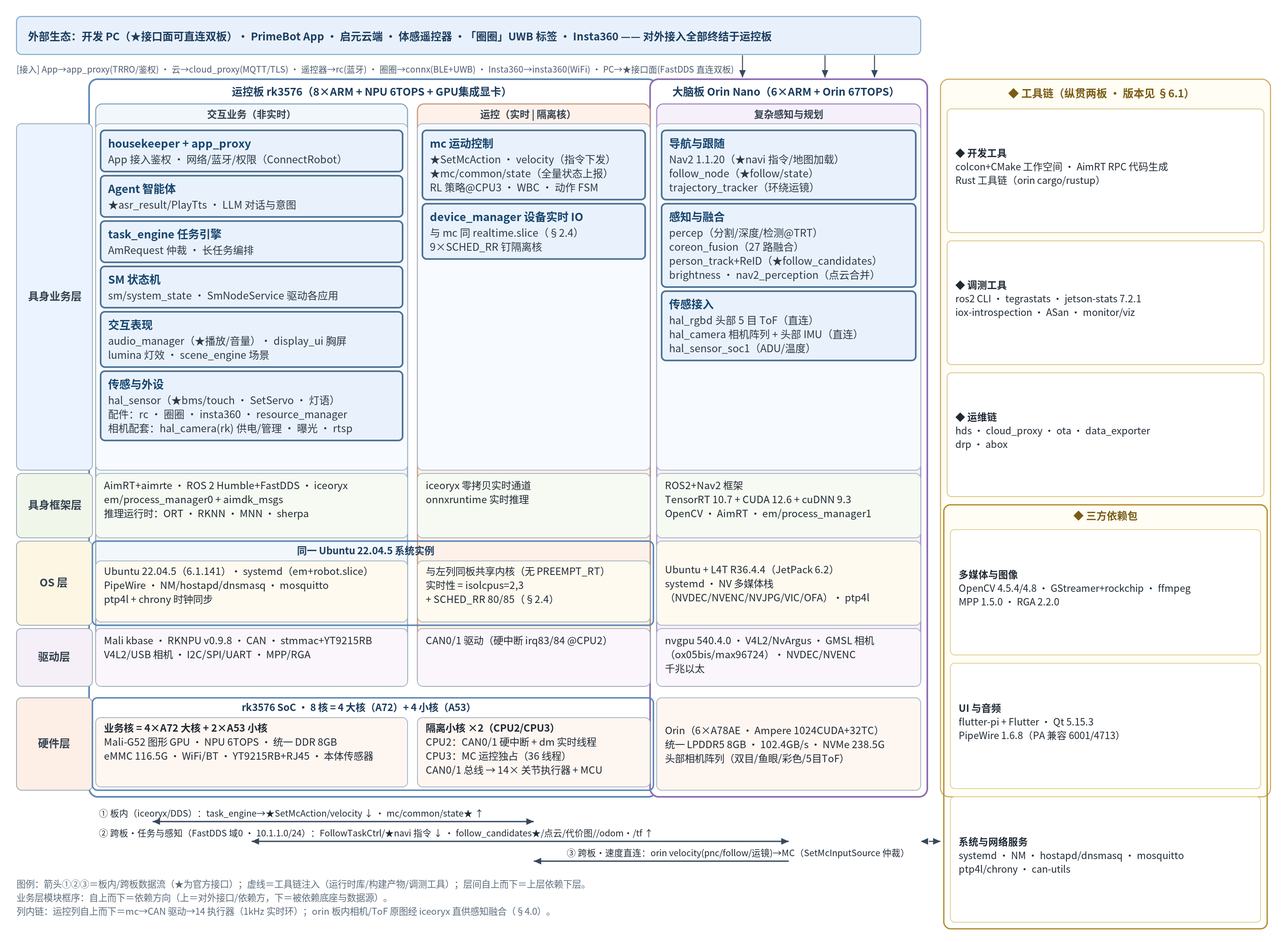
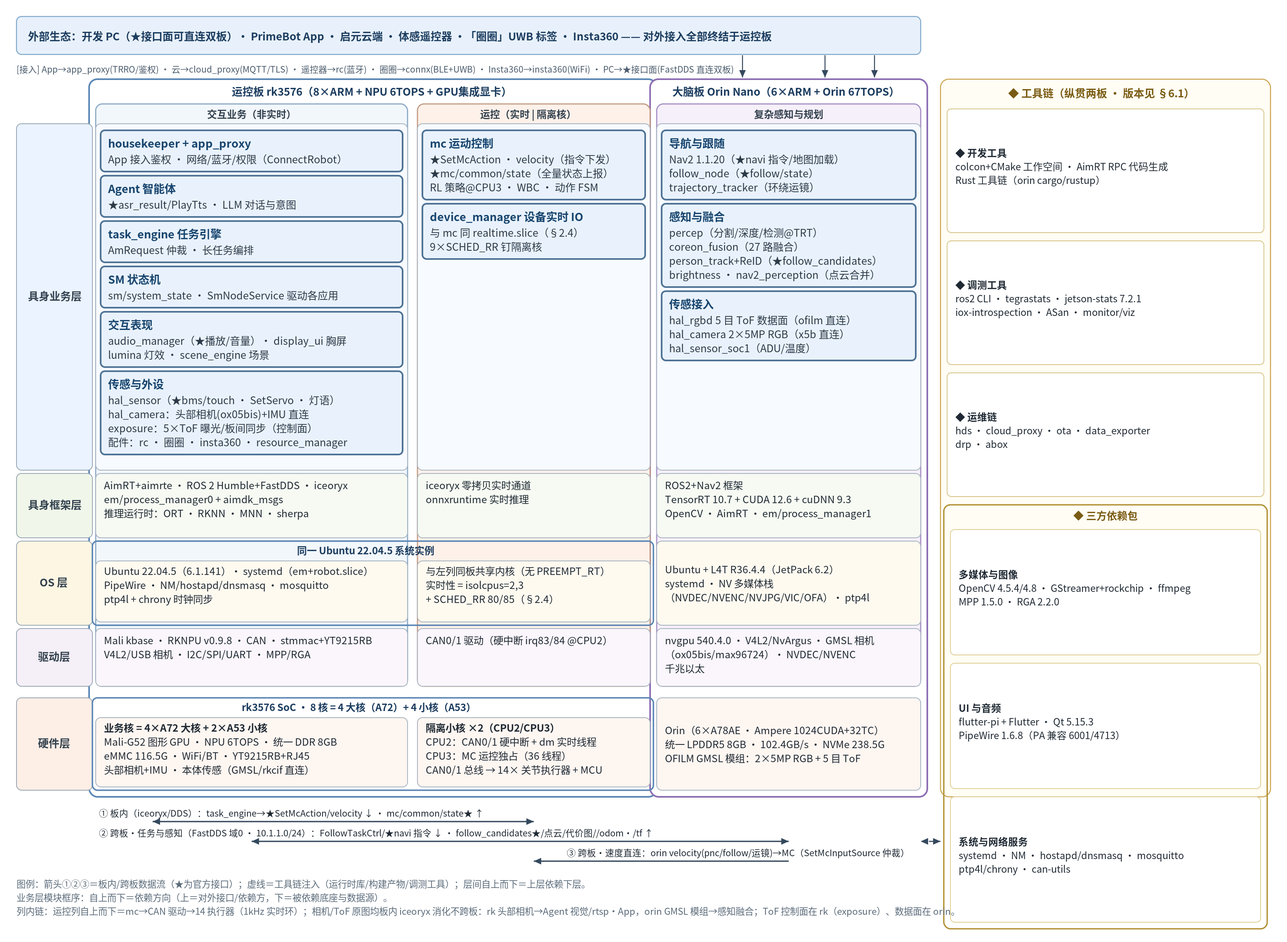
传感器直连拓扑板上实证闭环 + 归属推断清单全部核实（fuser/dmesg/cfg 三重核验）
rk 直连（实证）：头部相机 ox05bis 5MP（max96724 GMSL→rkcif，hal_camera
持有 /dev/video0-1，2592×1944@10fps，出 bgr_l/nv12_l）+ BMI08 头部 IMU
（orin 配置中 imu_head 已注释→归属修正为 rk 发布）+ 5×ToF 控制面
（hal_rgbd 包内 exposure 进程，I2C i2c-0/i2c-5 + V4L2 直控曝光，处理
/ofilm/tof/inter_board 板间同步，持有 /dev/video2）+ 本体传感；图像经
iceoryx/dmabuf 板内供 Agent 视觉（NPU 实测 25%/15% 常跑）与 rtsp（App）

orin 直连（实证）：OFILM GMSL 模组 = 2× ofilm_x5b 5MP RGB（UYVY，
hal_camera 持有 video0-1）+ 5×ToF 数据面（ofilm_tof/tofb，hal_rgbd 持有
video2-7→coreon_fusion）+ ADU/温度；鱼眼配置项指向不存在的 video8/9
（其他机型遗留）

跨板结论实证：图像话题 ROS 侧 0 发布者＝原图不跨板；ToF 控制面在 rk、
数据面在 orin 分工；soc_sync/ready + inter_board 双同步信号

归属核实闭环：HK_ros2_rpc_node=管家/云属性桥（实证）；task_trigger=
Agent 交互触发链（订阅 face_info/task_operation/interaction + TaskStatus
客户端；原推断 task_engine 侧有误）；trro_recv_dedicated=App 通道接收器
（app_proxy 域进程内节点）；scene_engine=ros2 通道订阅（cfg 实证）；
§6.3 表 rk 侧 hal_rgbd 实为 exposure 曝光进程

文档同步 12 处；图 7-1 传感与外设/传感接入/硬件层/图例更新；
图引用 ?v=20261031e；Chrome 110/110 文本全渲染核验

diff --git a/figures/gen_fig_7_1.py b/figures/gen_fig_7_1.py
@@ -79,7 +79,7 @@ BIZ_COLS = [
   ('task_engine 任务引擎', ['AmRequest 仲裁 · 长任务编排']),
   ('SM 状态机', ['sm/system_state · SmNodeService 驱动各应用']),
   ('交互表现', ['audio_manager（★播放/音量）· display_ui 胸屏', 'lumina 灯效 · scene_engine 场景']),
-  ('传感与外设', ['hal_sensor（★bms/touch · SetServo · 灯语）', '配件：rc · 圈圈 · insta360 · resource_manager', '相机配套：hal_camera(rk) 供电/管理 · 曝光 · rtsp']),
+  ('传感与外设', ['hal_sensor（★bms/touch · SetServo · 灯语）', 'hal_camera：头部相机(ox05bis)+IMU 直连', 'exposure：5×ToF 曝光/板间同步（控制面）', '配件：rc · 圈圈 · insta360 · resource_manager']),
  ],
  [  # rk·运控：mc 对上暴露 ★接口，device_manager 为更底层设备 IO
   ('mc 运动控制', ['★SetMcAction · velocity（指令下发）', '★mc/common/state（全量状态上报）', 'RL 策略@CPU3 · WBC · 动作 FSM']),
@@ -88,7 +88,7 @@ BIZ_COLS = [
  [  # orin：任务产出层在上，感知融合居中，传感数据源在下
   ('导航与跟随', ['Nav2 1.1.20（★navi 指令/地图加载）', 'follow_node（★follow/state）', 'trajectory_tracker（环绕运镜）']),
   ('感知与融合', ['percep（分割/深度/检测@TRT）', 'coreon_fusion（27 路融合）', 'person_track+ReID（★follow_candidates）', 'brightness · nav2_perception（点云合并）']),
-  ('传感接入', ['hal_rgbd 头部 5 目 ToF（直连）', 'hal_camera 相机阵列 + 头部 IMU（直连）', 'hal_sensor_soc1（ADU/温度）']),
+  ('传感接入', ['hal_rgbd 5 目 ToF 数据面（ofilm 直连）', 'hal_camera 2×5MP RGB（x5b 直连）', 'hal_sensor_soc1（ADU/温度）']),
  ],
 ]
 
@@ -115,14 +115,15 @@ dr_c3 = [('nvgpu 540.4.0 · V4L2/NvArgus · GMSL 相机', False),
          ('千兆以太', False)]
 hw_c1 = [('业务核 = 4×A72 大核 + 2×A53 小核', True),
          ('Mali-G52 图形 GPU · NPU 6TOPS · 统一 DDR 8GB', False),
-         ('eMMC 116.5G · WiFi/BT · YT9215RB+RJ45 · 本体传感器', False)]
+         ('eMMC 116.5G · WiFi/BT · YT9215RB+RJ45', False),
+         ('头部相机+IMU · 本体传感（GMSL/rkcif 直连）', False)]
 hw_c2 = [('隔离小核 ×2（CPU2/CPU3）', True),
          ('CPU2：CAN0/1 硬中断 + dm 实时线程', False),
          ('CPU3：MC 运控独占（36 线程）', False),
          ('CAN0/1 总线 → 14× 关节执行器 + MCU', False)]
 hw_c3 = [('Orin（6×A78AE · Ampere 1024CUDA+32TC）', False),
          ('统一 LPDDR5 8GB · 102.4GB/s · NVMe 238.5G', False),
-         ('头部相机阵列（双目/鱼眼/彩色/5目ToF）', False)]
+         ('OFILM GMSL 模组：2×5MP RGB + 5 目 ToF', False)]
 
 ROWS = [('具身框架层', (fw_c1, fw_c2, fw_c3)),
         ('OS 层', (os_c1, os_c2, os_c3)),
@@ -303,7 +304,7 @@ S.append(arrow(TC_X, AY2, C3_X + C3_W, AY2, dash='5,4', sw=1.3))
 t, _ = text_block(LBL_X, BOARD_BOT + 110, [
     ('图例：箭头①②③＝板内/跨板数据流（★为官方接口）；虚线＝工具链注入（运行时库/构建产物/调测工具）；层间自上而下＝上层依赖下层。', False),
     ('业务层模块框序：自上而下＝依赖方向（上＝对外接口/依赖方，下＝被依赖底座与数据源）。', False),
-    ('列内链：运控列自上而下＝mc→CAN 驱动→14 执行器（1kHz 实时环）；orin 板内相机/ToF 原图经 iceoryx 直供感知融合（§4.0）。', False)],
+    ('列内链：运控列自上而下＝mc→CAN 驱动→14 执行器（1kHz 实时环）；相机/ToF 原图均板内 iceoryx 消化不跨板：rk 头部相机→Agent 视觉/rtsp·App，orin GMSL 模组→感知融合；ToF 控制面在 rk（exposure）、数据面在 orin。', False)],
     fs=11.2, color='#5b6b7a', lh=16.6)
 S.append(t)
 

diff --git a/t1-pro-orin-rk-analysis.md b/t1-pro-orin-rk-analysis.md
@@ -233,7 +233,7 @@ systemd
 | `aimrt_main`（t1_v2d0_config.yaml） | run | 设备管理器 device_manager | `/device_manager_node`（cwd=/robot/software/device_manager/bin 实证） |
 | `aimrt_main`（audio_manager.yaml） | run | 音频管理（麦克风阵列/播放/音乐） | `/audiomanager_ros2_node` |
 | `aimrt_main`（hal_sensor_t1_v2d0_cfg.yaml） | run | 传感器 HAL（BMS/触摸/灯/舵机/颈部灯，soc0 侧） | `/hal_sensor_soc0` |
-| `aima-hal_camera-app-main`（rk 配置） | run | 相机 HAL（rk 侧摄像头供电/管理） | 图上未见 ROS 节点（iceoryx 为主） |
+| `aima-hal_camera-app-main`（rk 配置） | run | **相机 HAL：头部相机直连采集**（ox05bis 5MP 经 max96724 GMSL→rkcif，2592×1944@10fps，fuser 实证持有 /dev/video0-1）+ **BMI08 头部 IMU**（/dev/bmi08_imu）；帧经 iceoryx/dmabuf 板内分发（Agent 视觉/rtsp） | 图上未见 ROS 节点（图像走 iceoryx，2026-10-31 板上实证） |
 | `aima-hds-app`（hds_master.yaml） | root | 健康诊断服务 HDS（故障码汇总/告警） | `/hds` |
 | `flutter-pi --release -r 180 display_ui` | root | 胸屏 Flutter UI 渲染 | 非 ROS 进程 |
 | `aima-legged_odom-app` | run | 足式里程计（odom/tf/躯干位姿） | `/legged_odom_node` |
@@ -263,8 +263,8 @@ systemd
 | `process_manager` | root | 同 rk（soc1 实例） | `/process_manager1` |
 | `sys_guard` | root | 系统守护（soc1 侧） | `/sys_guard_node_soc1` |
 | `aimrt_main`（hal_sensor_orin_t1_cfg.yaml） | run | 传感器 HAL（ADU 电源板/温度，soc1 侧） | `/hal_sensor_soc1` |
-| `aimrt_main`（t1_v2d1_config.yaml，hal_rgbd） | run | RGBD/ToF 相机 HAL（头部 5 目 ToF：main/front/rear/left/right） | `/hal_rgbd_node` + `/hal_rgbd_node_0`（cwd=hal_rgbd/bin 实证） |
-| `aima-hal_camera-app-main`（orin 配置） | run | 相机 HAL（orin 侧：双目/鱼眼/中央彩色相机 + 头部 IMU） | `/hal_camera` + `/hal_camera_1` |
+| `aimrt_main`（t1_v2d1_config.yaml，hal_rgbd） | run | RGBD/ToF 相机 HAL——**5 目 ToF 数据面**（ofilm_tof/tofb GMSL 驱动，fuser 实证持有 /dev/video2-7；main/front/rear/left/right） | `/hal_rgbd_node` + `/hal_rgbd_node_0`（cwd=hal_rgbd/bin 实证） |
+| `aima-hal_camera-app-main`（orin 配置） | run | 相机 HAL——2× ofilm_x5b 5MP RGB（2592×1944 UYVY，GMSL 直连，fuser 实证持有 /dev/video0-1；ToF 曝光控制面在 rk 侧 exposure）；imu_head 由 rk 侧发布（本板配置中已注释） | `/hal_camera` + `/hal_camera_1`（图像走 iceoryx，ROS 侧 0 发布者） |
 | `aimrt_main`（aimrt_person_track_config_T.yaml） | run | 人体跟踪感知（跟随候选目标检测） | `/aimrt_person_track_node` + `/aimrt_person_track_srv` |
 | `aimrt_main`（aimrt_brightness_status_config_T.yaml） | run | 亮度检测（跟随过暗门控） | `/aimrt_brightness_status_node` + `/aimrt_brightness_status_srv` |
 | `coreon_fusion` | run | 多传感器融合（5×ToF+相机+IMU+UWB → 融合点云/目标/避障状态） | `/coreon_fusion_ros2_node` |
@@ -306,9 +306,9 @@ systemd
 | **mc_app_main（CPU3 独占）** | `/mc_ros2_node` | 4 | 2 | 13 | 0 |
 | aim_sm_app | `/sm` | 3 | 2 | 4 | 28 |
 | aima-agent-app | `/aimrt_agent_node` | 15 | 8 | 18 | 24 |
-| （管家/云属性桥，推断） | `/HK_ros2_rpc_node` | 0 | 0 | 1 | 1 |
+| （管家/云属性桥，实证） | `/HK_ros2_rpc_node` | 0 | 0 | 1 | 1 |
 | task_engine | `/task_engine` | 12 | 39 | 30 | 51 |
-| （任务触发链路，推断 task_engine 侧） | `/task_trigger_ros2_node` | 0 | 3 | 0 | 1 |
+| （任务触发链路，实证=Agent 交互触发） | `/task_trigger_ros2_node` | 0 | 3 | 0 | 1 |
 | aimrt_main（t1_v2d0，device_manager） | `/device_manager_node` | 1 | 0 | 0 | 1 |
 | aimrt_main（audio_manager） | `/audiomanager_ros2_node` | 9 | 1 | 15 | 1 |
 | aimrt_main（hal_sensor soc0） | `/hal_sensor_soc0` | 6 | 2 | 9 | 0 |
@@ -349,7 +349,7 @@ systemd
 | nav2_perception | `/pointcloud_combiner_node`、`/perception_node`、`/lifecycle_manager_t1_perception` | 见 4.4 | | | |
 | data_exporter（soc1 实例） | `/data_exporter` ① | 1 | 0 | 12 | 10 |
 | aima_ota_slave_app | `/ota_slave` | 2 | 0 | 2 | 0 |
-| （进程未确证，订阅 trro 专用通道） | `/trro_recv_dedicated` | 0 | 1 | 0 | 0 |
+| （App 通道接收器，随 app_proxy 域，实证） | `/trro_recv_dedicated` | 0 | 1 | 0 | 0 |
 
 ### 4.3 各节点完整接口挂载（rk 侧业务节点）
 
@@ -436,7 +436,7 @@ systemd
 
 **`/hal_rgbd_node` + `/hal_rgbd_node_0`（hal_rgbd）**：发布 5 路 `ofilm/tof/*/sensor_info`（RgbdInfo：曝光/温度）、`ofilm/tof/inter_board`、diagnostic、sm/node_state；订阅 10 路 `ofilm/tof/*/raw_record|rrf_record`（录制开关）；服务端 `SetHalTofStream`、`SmNodeService/hal_rgbd/…`
 
-**`/hal_camera` + `/hal_camera_1`（hal_camera orin）**：`/hal_camera` 发布 `hal/camera/module_info`、`hal/imu/imu_head`、`soc_sync/ready`；服务端 `CaptureJpegImage`★、`HALCameraCommand`；`/hal_camera_1` 服务端 `SetHalCameraStream`；两者共同订阅 `permission_state`（相机权限门控）、`mc/common/state`
+**`/hal_camera` + `/hal_camera_1`（hal_camera orin）**：`/hal_camera` 发布 `hal/camera/module_info`、`soc_sync/ready`；服务端 `CaptureJpegImage`★、`HALCameraCommand`；`/hal_camera_1` 服务端 `SetHalCameraStream`；两者共同订阅 `permission_state`（相机权限门控）、`mc/common/state`
 
 **`/aimrt_person_track_node` + `_srv`（person_track）**：发布 `perception/follow_candidates`（跟随候选）★、`perception/target_info`（Detection2DArray）、`follow_camera_lift_angle`、3 路调试（debug_cloud/image/markers）；订阅 `mc/common/state`、`odom`、`enable_follow`、`follow_target_selection`；服务端 `/perception/set_follow_perception_task`；客户端 `SetServo`（相机抬升）
 
@@ -460,9 +460,9 @@ systemd
 
 **`/sys_guard_node_soc1`（orin）**：同 soc0 结构（active_scene、diagnostic、sm/node_state）
 
-**`/trro_recv_dedicated`（归属未确证，orin 侧可见）**：订阅 `aima/app_proxy/trro_pull_message`（App 通道专用接收器）
+**`/trro_recv_dedicated`（实证：App 通道接收器，无独立进程＝app_proxy 域进程内节点）**：订阅 `aima/app_proxy/trro_pull_message`（App 通道专用接收器）
 
-**`/HK_ros2_rpc_node`（推断 rk 管家/云属性桥）**：服务端 `aimomp.protocol.DevicePropertyService/SetProperty`；客户端 `aimomp.protocol.CloudPropertyService/ReportProperty`（proto RPC 包装）
+**`/HK_ros2_rpc_node`（实证 rk 管家/云属性桥，2026-10-31 node info 复核）**：服务端 `aimomp.protocol.DevicePropertyService/SetProperty`；客户端 `aimomp.protocol.CloudPropertyService/ReportProperty`（proto RPC 包装：设备属性设置→上报云端）
 
 **辅助节点**：`/launch_ros_1692`（launch 进程自身）、8×`/transform_listener_impl_*`（各进程内 tf2 监听辅助节点）、`/bt_navigator_navigate_to_pose_rclcpp_node`（bt_navigator 内部桥）——非业务节点。
 
@@ -559,7 +559,7 @@ systemd
 | `/odom_torso` | nav_msgs/Odometry | 躯干（上半身）里程计 | 同上 | coreon_fusion 订阅 | 内部 |
 | `/torso_imu_orientation` | nav_msgs/Odometry | 躯干 IMU 航向（以里程计形式表达） | 同上 | coreon_fusion 订阅 | 内部 |
 | `/aima/hal/imu/torso/state` | sensor_msgs/Imu | 躯干 IMU 原始数据（仅订阅、发布者离线） | 标准 Imu（角速度/线加速度/姿态） | coreon_fusion 订阅 | 内部 HAL 通道 |
-| `/aima/hal/imu/imu_head` | sensor_msgs/Imu | 头部 IMU（hal_camera 发布） | 标准 Imu | 外部（仅发布） | 内部 |
+| `/aima/hal/imu/imu_head` | sensor_msgs/Imu | 头部 IMU（**rk** hal_camera/BMI08 发布，跨板可见；orin 配置中已注释） | 标准 Imu | 外部（仅发布） | 内部 |
 | `/tf`、`/tf_static` | tf2_msgs/TFMessage | 坐标变换树（map→odom 静态、base_link→相机/ToF 静态、odom→base_link 动态） | TFMessage（transforms[]） | 全图 9 订阅 | 4 个静态发布器 + legged_odom 动态发布 |
 | `/goal_pose` | geometry_msgs/PoseStamped | 导航目标点（仅订阅；nav2 标准入口） | `header`；`pose` | bt_navigator 订阅 | T1 业务侧走 `/navi/command` 服务 |
 | `/grid_map_origin` | nav_msgs/OccupancyGrid | 当前地图原点/元信息（map_server 发布） | 标准 OccupancyGrid | robot_navigation、costmap 订阅 | 内部 |
@@ -610,7 +610,7 @@ systemd
 | `/aima/hal/camera/head_stereo_left_orin` / `_right_orin` | Image | 头部双目（orin 处理流）左右目 | 标准 Image | coreon_fusion 订阅 | — |
 | `/aima/hal/camera/head_fisheye_left_orin` / `_right_orin` | Image | 头部左右鱼眼（orin 流） | 标准 Image | coreon_fusion 订阅 | — |
 | `/ofilm/tof/{main,front,rear,left,right}/sensor_info` | RgbdInfo | 5 路 ToF 模组信息 | `header`；`exposure` 曝光；`temperature` 温度 | coreon_fusion/融合链路订阅 | 与 `SetHalTofStream` 供电/出流控制配对 |
-| `/ofilm/tof/inter_board` | std_msgs/Bool | ToF 板间同步标志 | `data` | hal_rgbd_node_0 订阅 | — |
+| `/ofilm/tof/inter_board` | std_msgs/Bool | ToF 板间同步标志 | `data` | hal_rgbd_node_0 与 rk exposure 订阅 | rk↔orin ToF 采集同步 |
 | `/ofilm/tof/*/raw_record`、`/ofilm/tof/*/rrf_record`（×10） | Bool | 各 ToF 原始/RRF 录制开关（**仅订阅 = 二开可发**） | `data` | hal_rgbd 订阅 | 数据采集入口（录制约 /robot/persist） |
 | `/pmd_royale_ros_camera_node[_0..4]/point_cloud_0`（×5） | PointCloud2 | PMD Royale ToF 相机点云（仅订阅） | 标准点云 | coreon_fusion 订阅 | 驱动节点未上图（iceoryx 桥） |
 | `/metoak/camera/images/left`、`depth/left`、`point_cloud`（×3） | Image/PointCloud2 | Metoak 相机彩色/深度/点云（仅订阅） | 标准 | coreon_fusion 订阅 | 同上 |
@@ -1288,7 +1288,7 @@ sequenceDiagram
 | display_ui（flutter-pi 胸屏渲染） | interaction | 9.1 | **28.5** | 21.3 | 29.7 | 28.2 | 225 | **Mali GPU**（胸屏 2D/3D 渲染，rk GPU 占用主项） |
 | hal_camera（rk 侧相机 HAL） | system | 13.3 | 15.0 | 14.6 | 15.1 | 14.8 | 451 | MPP/RGA 硬件通路（VPU/RGA，非 GPU） |
 | lumina（灯效服务） | system | 10.9 | 12.0 | 12.3 | 12.2 | 13.2 | 92 | — |
-| hal_rgbd（rk 侧 ToF/RGBD HAL 实例①） | system | 9.0 | 10.2 | 9.8 | 10.1 | 10.0 | 40 | — |
+| hal_rgbd（rk 侧，实为曝光控制 exposure①） | system | 9.0 | 10.2 | 9.8 | 10.1 | 10.0 | 40 | — |
 | rc（体感遥控接入） | system | 6.2 | 7.0 | 6.8 | 7.1 | 6.8 | 52 | — |
 | ota（ota_master） | system | 4.8 | 5.2 | 5.2 | 5.2 | 5.1 | 68 | — |
 | cloud_proxy（云端代理） | system | 4.8 | 4.9 | 5.0 | 5.0 | 4.9 | 665④ | — |
@@ -1311,7 +1311,7 @@ sequenceDiagram
 | process_manager | 系统 | 0.5 | 0.7 | 0.7 | 0.7 | 0.7 | 46 | — |
 | 其他（ptp4l/hostapd/dnsmasq/chronyd/NetworkManager/secret_store 等） | 系统 | 各 <1 | | | | | ~120 合计 | — |
 
-① rk 侧亦部署 hal_rgbd 实例（soc0 manifest stage1 实含，§3.2 表未列，本次实测补录）。② 圈圈接入进程位于 connx 应用目录（`aimrt_main --cfg=quanji.yaml`）。③ RSS 主要为 iceoryx 共享内存段映射（全板共享），非私有内存。
+① rk 侧该进程实为 hal_rgbd 包内**曝光控制 exposure**（进程名 hal_rgbd；2026-10-31 实证：经 I2C/V4L2 直控 5×ToF 曝光并处理 inter_board 板间同步，持有 /dev/video2；soc0 manifest stage1 实含，§3.2 表未列，本次实测补录）。② 圈圈接入进程位于 connx 应用目录（`aimrt_main --cfg=quanji.yaml`）。③ RSS 主要为 iceoryx 共享内存段映射（全板共享），非私有内存。
 
 #### 6.3.2 orin 板：软件模块/进程级（列含义同 6.3.1）
 
@@ -1487,7 +1487,7 @@ sequenceDiagram
 
 **排版口径**：**纵向（列）**按部署域切分为三部分——运控板 rk 的「交互业务（非实时）」与「运控执行（实时）」两列 + 大脑板 orin 的「复杂感知与规划」一列；**横向（行）**自上而下为**具身业务层 → 具身框架层 → OS 层 → 驱动层 → 硬件层**五层（即自底向上：硬件→驱动→OS→框架→业务）；**最右侧为纵贯全部层级的「工具链」大框**。因 mermaid 自动布局无法锁定矩阵式行列顺序，本图由脚本生成 **SVG 矢量图**（`figures/gen_fig_7_1.py` → `figures/fig-7-1-layered-arch.svg`，仓库同时提供 PNG 版 `fig-7-1-layered-arch.png`），行列位置精确可控，并直接画出板内/跨板数据流与工具链注入连线。按 4+1 视图口径，**本图即逻辑视图**：以具身业务层的功能模块（职责+接口★）为主体，其下框架/OS/驱动层与硬件层作为物理承载一并框出（嵌套结构：**板框 ⊃ 部分框 ⊃ 业务/框架/OS/驱动四层；硬件层在板框内、部分框外**）；模块间接口协作另见 §7.4，场景串联见 §6.2。
 
-![图 7-1 逻辑视图（双板纵切 × 五层横切 × 工具链纵贯）](figures/fig-7-1-layered-arch.png?v=20261031d)
+![图 7-1 逻辑视图（双板纵切 × 五层横切 × 工具链纵贯）](figures/fig-7-1-layered-arch.png?v=20261031e)
 
 > **图 7-1 读法**：**板框**（运控板 rk3576 / 大脑板 Orin Nano）⊃ **部分框**（交互业务（非实时）/ 运控（实时｜隔离核）/ 复杂感知与规划，各含具身业务→框架→OS→驱动四层，上层依赖下层）（正文为缩略显示，点击图片可放大至原生分辨率）；**硬件层**在板框内、部分框正下方（**rk 侧两格外包统一框：rk3576 8 核＝4×A72 大核＋4×A53 小核**，内格细分业务核〔4×A72＋2×A53〕与 2×隔离小核 CPU2/CPU3）；**OS 层 rk 两列同属一个 Ubuntu 22.04.5 系统实例**（外包统一框，共享内核与系统服务）；**具身业务层内每模块独立成框，框序自上而下=依赖方向（上=对外接口/依赖方，下=被依赖底座与数据源）**；最右列为**工具链**纵贯（**开发工具 → 调测工具 → 三方依赖包**〔多媒体与图像 · UI 与音频 · 系统与网络服务〕）；**①②③通信线统一画在图底部**。
 > **连线与交互**（图上带编号的箭头）：**① 板内**（rk 业务⇄运控，iceoryx/DDS）——task_engine→★SetMcAction/velocity ↓，mc→★mc/common/state ↑；**② 跨板·任务与感知**（rk 业务⇄orin，内部以太网 10.1.1.0/24 · FastDDS 域 0）——FollowTaskCtrl/★navi 指令 ↓，★follow_candidates/点云/代价图、/odom·/tf ↑（只走结果级数据，相机原图板内消化）；**③ 跨板·速度直连**（orin→MC）——nav2/follow/运镜发布 velocity(pnc/follow)，MC 按 SetMcInputSource 仲裁；**外部接入**——App→app_proxy(TRRO/鉴权)、云→cloud_proxy(MQTT/TLS)、遥控器→rc(蓝牙)、圈圈→connx(BLE+UWB)、Insta360→insta360(WiFi)，全部终结于 rk；PC ★接口面 FastDDS 直连双板；**虚线**=工具链注入。模块级全量接口见 §7.4，连接视角见 §7.2。
@@ -1498,7 +1498,7 @@ sequenceDiagram
 2. **五层横切核对 ✅ 基本合理**，与板上实际栈一致，但有三点按事实修正/注记：① **ROS 2/AimRT/iceoryx/推理运行时归「具身框架层」而非 OS 层**——OS 层只放内核+systemd+系统服务；② **运控执行列没有独立 RT 内核**（无 PREEMPT_RT，靠 isolcpus+SCHED_RR，已在该列 OS 层如实标注）；③ 按 4+1 严格口径，硬件/驱动/OS 层属物理/过程视图成分，**逻辑视图本体=具身业务层的功能模块及其接口**（图中已为每个业务模块标注职责与代表接口★），纯逻辑协作图见 §7.4。
 3. **工具链框收拢为四块**（版本以 §6.1 实测为准）：**开发工具**（colcon+CMake 工作空间、AimRT RPC 代码生成、Rust 工具链）→ **调测工具**（ros2 CLI、tegrastats、jetson-stats 7.2.1、iox-introspection、ASan、AimRT monitor/viz）→ **运维链**（hds、cloud_proxy、ota、data_exporter、drp、abox）→ **三方依赖包**（外包「多媒体与图像 / UI 与音频 / 系统与网络服务」三组）；中间件与通信、AI 推理运行时、商业 SDK 三组不再单列成框——推理运行时要点已见于框架层单元格，完整版本与开源仓以 §6.1 为准。
 4. **跨板边界只走结果级数据**：rk↔orin 经内部以太网 FastDDS 域 0 交换目标/点云/代价图与任务指令；相机原图等大带宽在 orin 板内经 iceoryx 消化（§4.0）。
-5. **传感器直连拓扑核对（2026-10-31 复核归档数据）**：**orin 直连头部感知阵列**——`hal_camera`×2（双目/鱼眼/中央彩色相机 + 头部 IMU，GMSL/NvArgus 链路）与 `hal_rgbd`（头部 5 目 ToF：main/front/rear/left/right）均实证运行于 orin（§3.3/§4）；**rk 不直连 ToF**——rk 上无 ToF HAL 实例（`hal_rgbd` 目录下进程实为曝光控制 `exposure_config.yaml`），rk 直连的是本体传感（BMS/触摸/灯/舵机/颈部灯，`hal_sensor_soc0`）；rk 的相机类进程为**配套角色**：`hal_camera`(rk 配置)=摄像头供电/管理、`exposure`=曝光控制、`rtsp_server`=App 视频拉流（MPP 硬编码）、Agent 六个 RKNN 视觉模型消费帧。`soc_sync/ready`（双板相机同步就绪）话题佐证两板相机链路协作；**Agent 视觉/rtsp 的帧到达路径（rk 板内直采 vs 跨板传输）为未确证项，待板在线复核**。外部佐证：[欧菲光「七路融合感知」方案（双目 RGB + 5 路 ToF + 6 轴 IMU）](https://www.chinanews.com.cn/cj/2026/10-30/10723321.shtml)。
+5. **传感器直连拓扑（2026-10-31 板上实证：fuser/dmesg/配置三重核验）**：**运控板 rk 直连**——头部相机（ox05bis 5MP，max96724 GMSL→rkcif，hal_camera 持有 /dev/video0-1，2592×1944@10fps）+ **BMI08 头部 IMU** + **5 目 ToF 控制面**（hal_rgbd 包内 `exposure` 进程经 I2C（i2c-0/i2c-5）+ V4L2 直控 5 颗 ToF 曝光/滤波，并处理 `/ofilm/tof/inter_board` 板间同步）+ 本体传感（BMS/触摸/灯/舵机，hal_sensor_soc0）；图像经 iceoryx/dmabuf 板内供给 Agent 视觉（NPU 实测 Core0 25%/Core1 15% 常跑）与 rtsp_server（MPP 编码→App）。**大脑板 orin 直连**——OFILM GMSL 模组：2× ofilm_x5b 5MP RGB（2592×1944 UYVY，hal_camera 持有 video0-1）+ **5 目 ToF 数据面**（ofilm_tof/tofb 驱动，hal_rgbd 持有 video2-7→coreon_fusion 融合）+ ADU/温度（hal_sensor_soc1）。**跨板只走结果级数据与同步信号**（soc_sync/ready、inter_board、点云/目标/指令），图像话题 ROS 侧 0 发布者＝原图不跨板；ToF 为「控制面在 rk、数据面在 orin」分工。头部 IMU 归属修正：由 rk hal_camera 发布（orin 配置中 imu_head 已注释）。外部佐证：[欧菲光「七路融合感知」方案（双目 RGB + 5 路 ToF + 6 轴 IMU）](https://www.chinanews.com.cn/cj/2026/10-30/10723321.shtml)。
 5. **一套以太网、一个 ROS 2 域**：PC/rk/orin 同处 `10.1.1.0/24`（§1）；rk 是对外网关，**对外接入（App/云/遥控器/圈圈/Insta360）全部终结于运控板**。
 6. **两列同板共享 OS/驱动/硬件**：运控执行列的 OS/驱动/硬件层标注「与左列共享」及该列特有部分（隔离调度、CAN 中断、执行器总线），避免误解为独立系统。
 7. **与后文四节的对应**：§7.2 软件模块连接图为本图业务层的「模块—硬件—外部」连接视角；§7.3 模块清单的功能分组（交互与业务/系统与运维/传感与外设接入/实时运控/感知与融合/导航与跟随）即本图各列「具身业务层」内的分组；§7.4 为业务层的模块级接口展开；§7.5 为对应与校验。
@@ -1826,7 +1826,7 @@ flowchart LR
 1. **只读原则**：全程未对两板写入/重启/kill/服务调用（无 `ros2 service call`、无 `topic pub`、无参数修改）。`ros2 node/topic/service list` 属图发现查询；orin 侧复用了板上已存在的 ros2-daemon（pid 3066，非本次创建）。
 2. **已知副作用（向用户报备）**：rk 上一次 `ros2 node list` 曾把输出重定向到 `/tmp/.nl.txt`（空文件，重启即清）；rk 侧 `--no-daemon` 查询不落盘。除此之外无任何写入。
 3. **采集命令**（可复现）：`ssh t1pro_orin 'source /opt/docker/env.sh && ros2 node list'`、`ros2 topic list -v`、`ros2 service list -t`、`ros2 node info <node>`；定义文件位于板上 `/robot/software/interface/aimdk_msgs/share/aimdk_msgs/{msg,srv}[/<子系统>]` 与 `/robot/software/algorithm/aimdk_msgs/share/aimdk_msgs/`。
-4. **归属推断清单**（后续可实证的开放点）：`/HK_ros2_rpc_node`（推断=管家/云属性桥）、`/task_trigger_ros2_node`（推断=task_engine 侧）、`/trro_recv_dedicated`（进程未确证）、rk `aimrt_main(exposure)` 与 `hal_camera(rk)`、`scene_engine` 未在 ROS 图上出现（推断走 iceoryx）。
+4. **归属核实结果（2026-10-31 板上实证，原推断清单全部闭环）**：`/HK_ros2_rpc_node`＝管家/云属性桥（SetProperty 服务端 + CloudPropertyService/ReportProperty 客户端）；`/task_trigger_ros2_node`＝**Agent 交互触发链**（订阅 `/agent/task_operation`、`/aima/agent/face_info`、`/aima/interaction/state`，`TaskStatus` 服务客户端，无独立进程＝进程内节点——原推断 task_engine 侧有误）；`/trro_recv_dedicated`＝App 通道接收器（订阅 `trro_pull_message`，无独立进程，随 app_proxy 域）；rk `hal_camera(rk)`＝头部相机（ox05bis）+BMI08 IMU 直连采集（§3.2，图像走 iceoryx 故不在 ROS 图）；`exposure`＝5×ToF 曝光/板间同步控制面（I2C/V4L2 直控）；`scene_engine`＝ros2 通道订阅 `interaction/state`、`agent/face_info`（cfg 实证）。
 5. **版本基线**：采集于整机固件 `t2-3`（rk 设备树型号）/ orin JetPack（driver 540.4.0）；接口清单与该版本强相关。
 
 <a id="sec9"></a>
